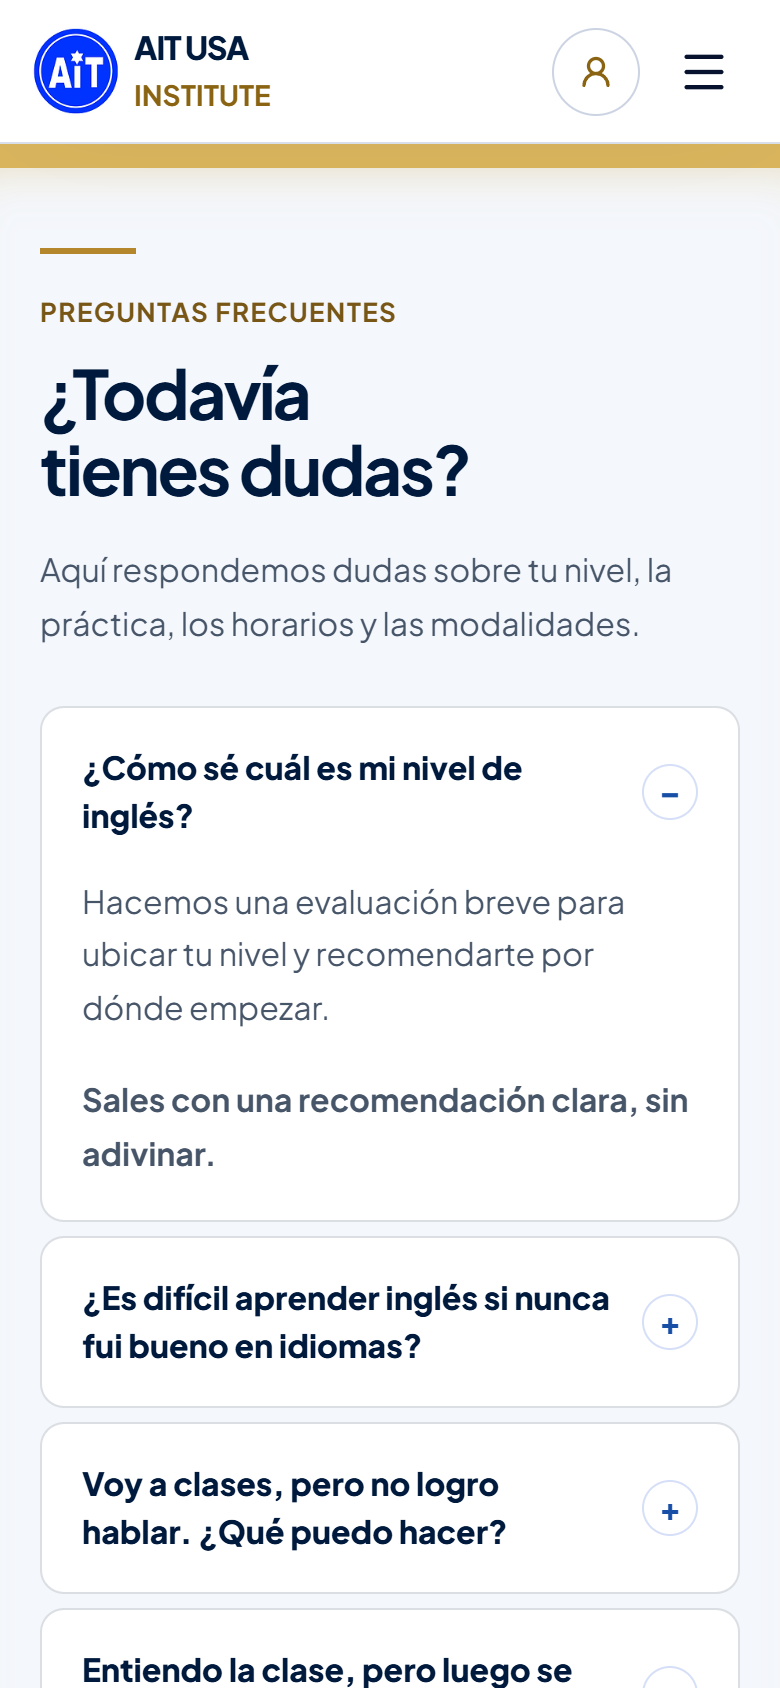
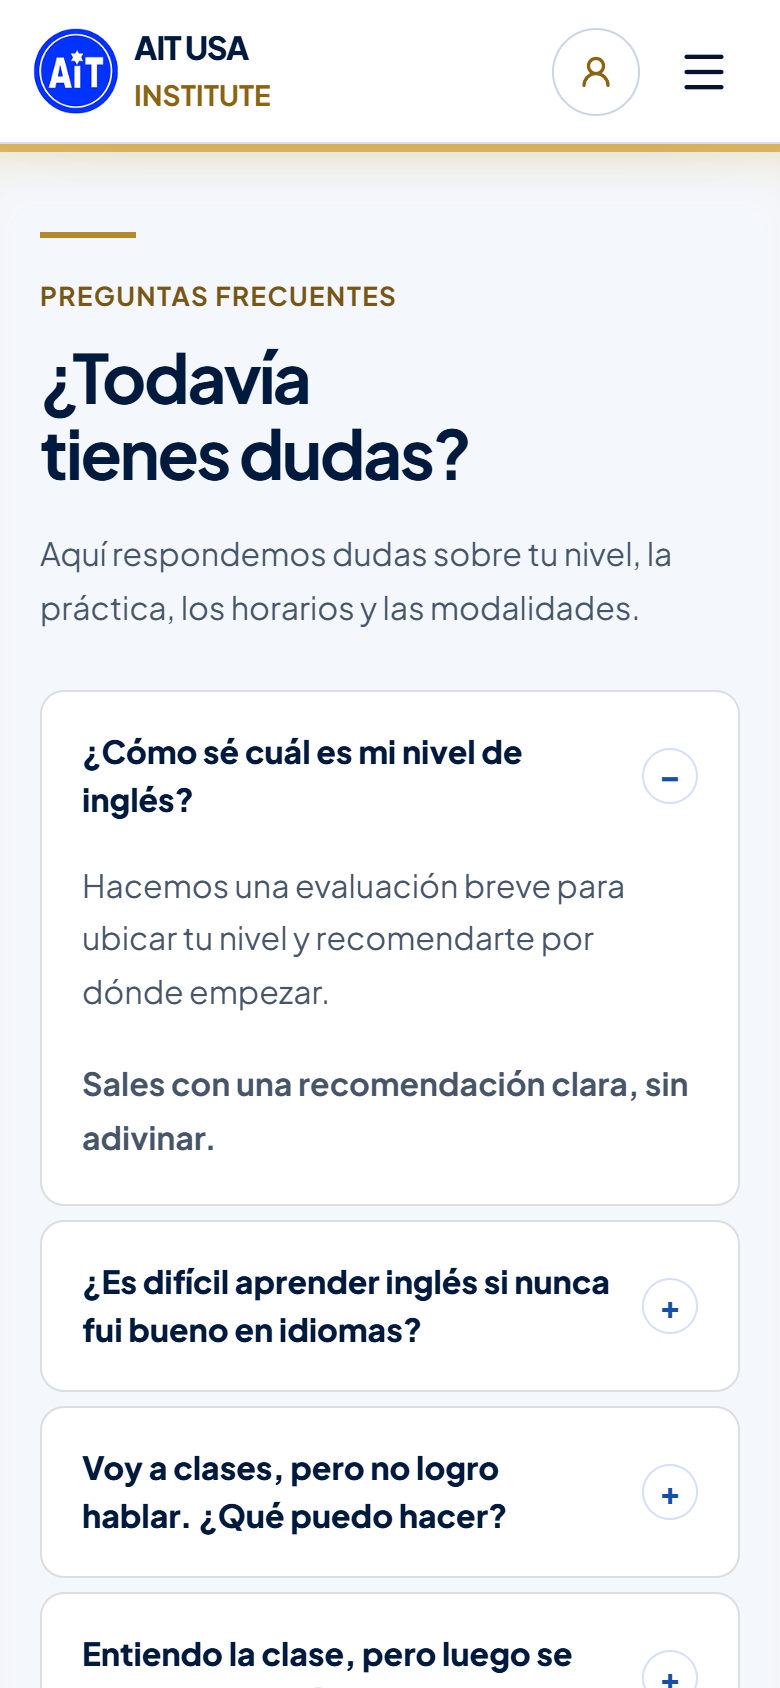
Refine Sedes to FAQ transition

diff --git a/src/homepage.css b/src/homepage.css
@@ -27,7 +27,7 @@
   --home-shadow-dark: inset 0 1px 0 rgb(255 255 255 / 12%), 0 18px 44px rgb(0 8 24 / 24%);
   --home-shadow-dark-hover: inset 0 1px 0 rgb(255 255 255 / 16%), 0 24px 52px rgb(0 8 24 / 30%);
   --home-seam-shadow: inset 0 22px 28px -32px var(--home-seam);
-  --home-accent-seam-shadow: inset 0 22px 30px -32px rgb(217 180 93 / 78%);
+  --home-accent-seam-shadow: inset 0 20px 28px -24px rgb(217 180 93 / 50%);
   --home-width: 1180px;
   --home-gutter: 32px;
   --home-heading: clamp(2.125rem, 3.4vw, 3rem);
@@ -280,7 +280,7 @@
     & :is(.hero__help, .home-text-link, .books-section__heading a):hover { color: white; }
     & :is(a, button):focus-visible { outline-color: var(--home-gold-light); }
   }
-  & #faq { background: var(--home-soft); border-top: 12px solid var(--home-gold-accent); box-shadow: var(--home-accent-seam-shadow); }
+  & #faq { background: var(--home-soft); border-top: 4px solid var(--home-gold-accent); box-shadow: var(--home-accent-seam-shadow); }
   & #faq, & #contacto { min-height: 0; }
   & #faq .faq-layout { align-items: start; gap: 48px; }
   /* Clear the legacy sticky top offset when the heading is in normal flow. */

diff --git a/docs/homepage-redesign-release-packet-2026-09-16.md b/docs/homepage-redesign-release-packet-2026-09-16.md
@@ -9,7 +9,7 @@
 - Candidate commit: This release commit, created directly from the freshly fetched `origin/staging` baseline above.
 - Candidate structure: Hero → English modality decision → secondary programs → Method → Graphic Concept books → testimonials → community proof → locations → FAQ → final CTA.
 - Follow-up refinement: Move the Method video below the subsection headline's starting edge, restore a clear 32px/18px heading-to-point hierarchy, remove the legacy upward pull on the three outcomes, reduce Method density on mobile, and give the narrow-screen secondary-program link an intentional centered wrap. No broader palette or component-system changes were made during the advisory uniformity audit.
-- Uniformity follow-up: Apply the approved homepage-wide visual system without reopening the structure or copy: one cool/warm palette rule, 16px feature cards, 12px content cards, 8px controls, shared light/dark borders, shared elevation recipes, cool-toned Sedes surfaces, one established gold for map pins and location markers, explicit inherited text colors, a fine gold seam into the warm Método story, and a deliberate 12px gold transition band between the cool Sedes and FAQ chapters.
+- Uniformity follow-up: Apply the approved homepage-wide visual system without reopening the structure or copy: one cool/warm palette rule, 16px feature cards, 12px content cards, 8px controls, shared light/dark borders, shared elevation recipes, cool-toned Sedes surfaces, one established gold for map pins and location markers, explicit inherited text colors, a fine gold seam into the warm Método story, and a stronger 4px established-gold seam with a soft fade between the cool Sedes and FAQ chapters.
 - Validation:
   - `npm run validate` — repository policy passed; asset integrity passed (`132` references, `0` missing, `0` orphaned); full Node suite passed (`357/357`); final Turbopack build failed because the worktree has no local `node_modules` and Turbopack rejects the temporary junction to the canonical checkout as outside the filesystem root.
   - `npm run build -- --webpack` — passed after the final CSS changes with all routes generated.
